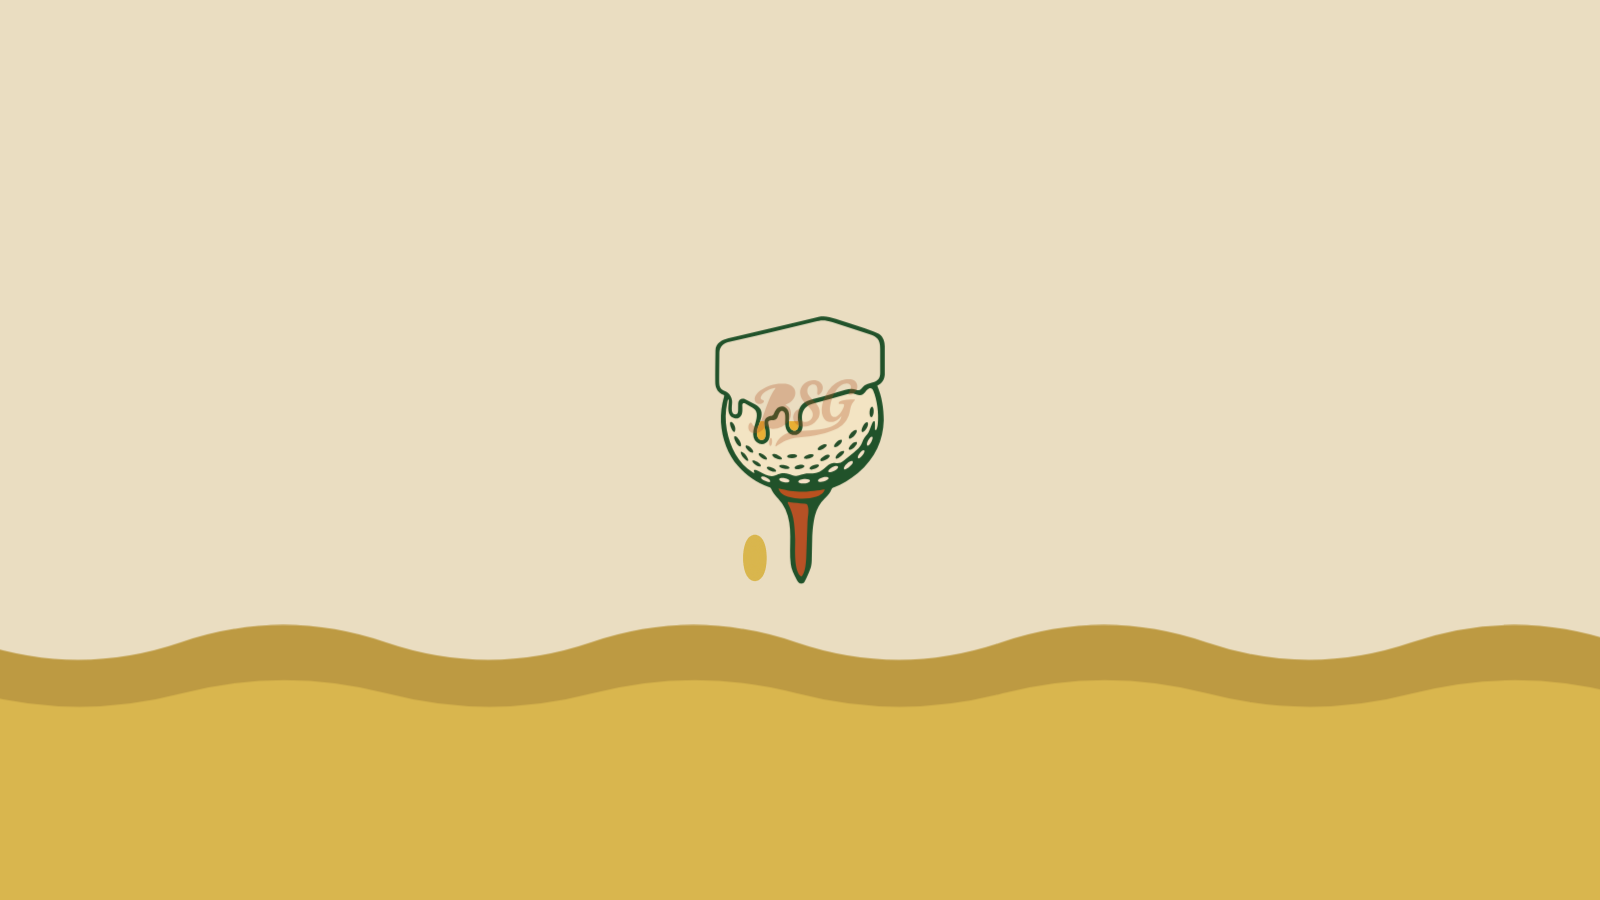
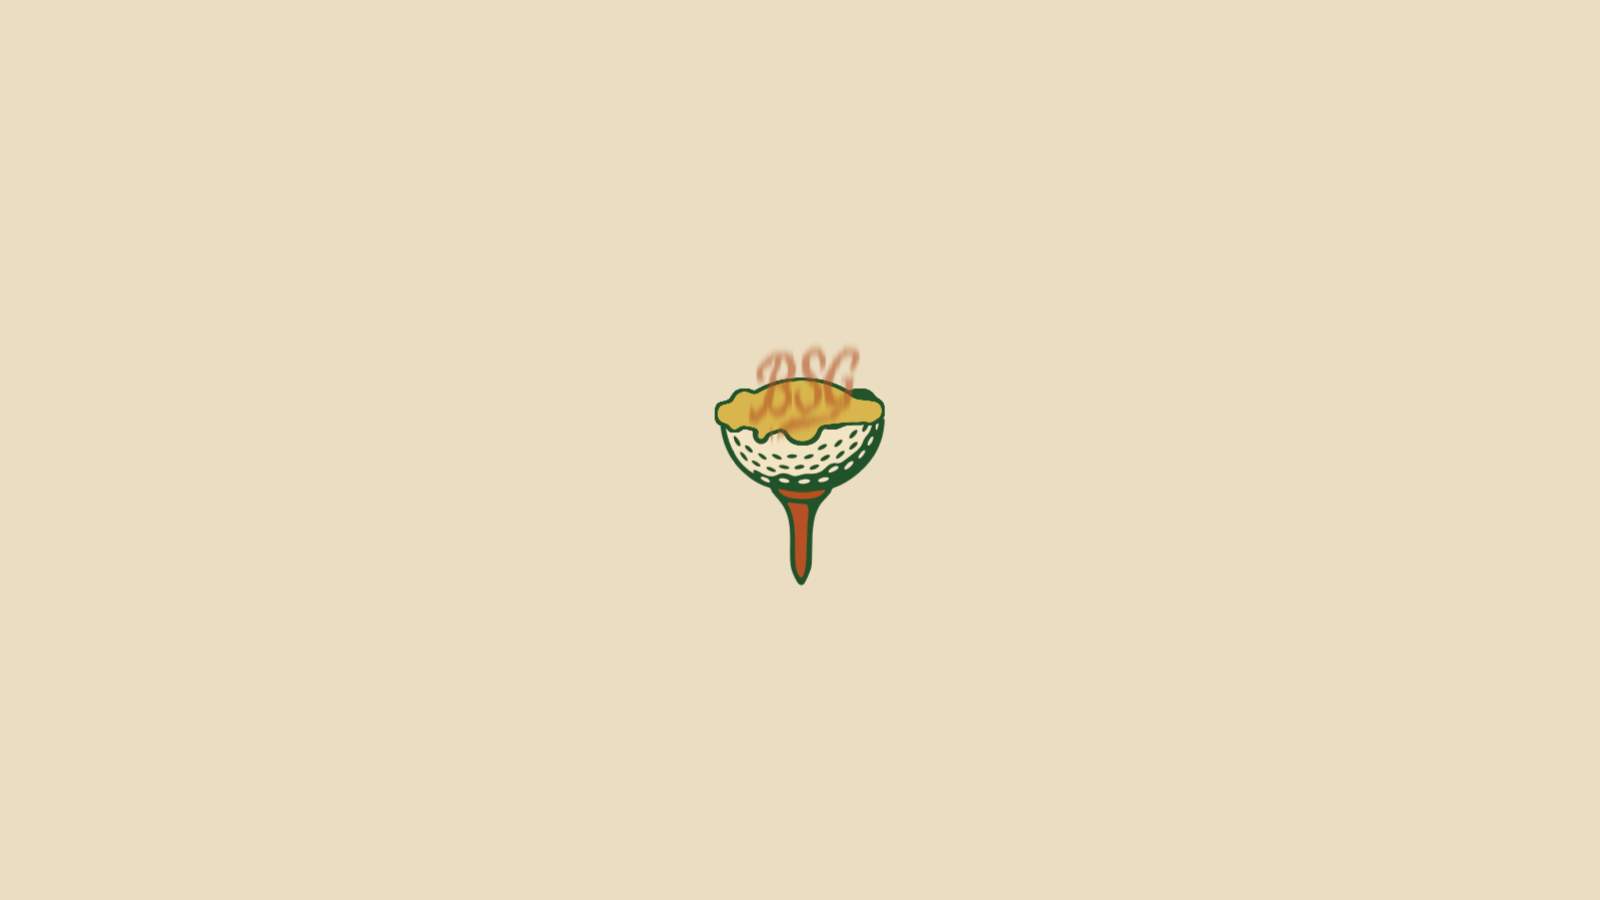
GSAP intro v3.2: outline melts with the mass, no viewport zoom-slam
Rim dilation animates 9 -> 4.5 during the melt so the green outline
thins and fuses instead of growing. Switch slice -> meet scaling (never
cover-crop: the wordmark no longer doubles in tall windows), body
background follows the tide, scene clipped to the viewBox.

Claude-Session: https://claude.ai/code/session_01XoixdVZHUDRa8j4FLVb79L

Changed region(s): [[0.0, 0.6844, 1.0, 1.0], [0.4375, 0.3422, 0.5625, 0.56], [0.4688, 0.5911, 0.5, 0.6533]]

diff --git a/gsap/intro.html b/gsap/intro.html
@@ -12,7 +12,7 @@
 </head>
 <body>
 <div class="stage">
-<svg viewBox="0 0 1600 900" preserveAspectRatio="xMidYMid slice" aria-label="Butter Sticks Golf intro animation">
+<svg viewBox="0 0 1600 900" preserveAspectRatio="xMidYMid meet" aria-label="Butter Sticks Golf intro animation">
   <defs>
     <filter id="goo" x="-30%" y="-30%" width="160%" height="160%">
       <feGaussianBlur in="SourceGraphic" stdDeviation="8" result="b"/>
@@ -23,7 +23,7 @@
       <feGaussianBlur in="SourceGraphic" stdDeviation="8" result="b"/>
       <feColorMatrix in="b" mode="matrix"
         values="1 0 0 0 0  0 1 0 0 0  0 0 1 0 0  0 0 0 20 -8" result="thresh"/>
-      <feMorphology in="thresh" operator="dilate" radius="10" result="fat"/>
+      <feMorphology id="rimDilate" in="thresh" operator="dilate" radius="9" result="fat"/>
       <feFlood flood-color="#21522a"/>
       <feComposite operator="in" in2="fat"/>
     </filter>
@@ -39,7 +39,9 @@
     <clipPath id="eraserClip">
       <rect id="eraserRect" x="1520" y="740" width="440" height="0"/>
     </clipPath>
+    <clipPath id="sceneClip"><rect x="0" y="0" width="1600" height="900"/></clipPath>
   </defs>
+  <g clip-path="url(#sceneClip)">
 
   <rect id="bg" width="1600" height="900" fill="#EADDC1"/>
 
@@ -141,6 +143,7 @@
 <path d="M 664.9526,627.6091000000001 C 678.5206,627.6151000000001 692.5156,627.7242000000001 706.1012,627.6930000000001 C 706.4133,627.6925000000001 706.6672,627.4371000000001 706.6667,627.1250000000001 L 706.6463,616.0922000000002 C 706.6457,615.7807000000001 706.392,615.5270000000002 706.0805,615.5264000000001 L 678.0906,615.4658000000001 C 677.1424,615.4635000000001 677.1084,615.3521000000001 677.111,614.8507000000001 C 677.192,603.2992000000002 677.1268,582.2647000000001 677.0767,563.3349000000001 C 677.0758,563.0217000000001 676.8201,562.7669000000001 676.5069,562.7669000000001 L 664.4684,562.7669000000001 C 664.1566,562.7669000000001 663.9021,563.0211000000002 663.9015,563.3330000000001 L 663.8193,626.4738000000001 C 663.8185,627.0986000000001 664.3278,627.6088000000001 664.9526,627.6091000000001" fill-rule="evenodd" class="golfLetter"/>
 <path d="M 741.7528,627.1286000000001 L 741.8211,603.0455000000001 C 741.8228,602.4202000000001 742.3339,601.9114000000001 742.9592,601.9122000000001 L 767.1189,601.9462000000001 C 767.2762,601.9465000000001 767.4117,601.8904000000001 767.5228,601.7793000000001 C 767.634,601.6681000000001 767.6898,601.5326000000001 767.6895,601.3753000000002 L 767.6688,590.3307000000001 C 767.6683,590.0172000000001 767.4126,589.7621000000001 767.0991,589.7621000000001 C 760.6885,589.7655000000001 749.7595,589.8270000000001 743.11,589.8032000000001 C 742.7962,589.8020000000001 742.5266,589.6886000000001 742.3058,589.4656000000001 C 742.0853,589.2422000000001 741.975,588.9712000000001 741.9776,588.6574000000002 C 742.0272,582.3767000000001 742.0263,582.0221000000001 742.0496,576.8483000000001 C 742.0521,576.2232000000001 742.5632,575.7155000000001 743.1883,575.7167000000001 L 769.0972,575.7609000000001 C 769.2542,575.7612000000001 769.3894,575.7053000000001 769.5006,575.5942000000001 C 769.6117,575.4834000000001 769.6678,575.3482000000001 769.6678,575.1911000000001 L 769.6678,563.3315000000001 C 769.6678,563.0177000000001 769.4118,562.7618000000001 769.098,562.7618000000001 L 729.3249,562.7618000000001 C 729.0113,562.7618000000001 728.7554,563.0175000000002 728.7551,563.3310000000001 L 728.6859,627.1731000000001 C 728.6856,627.3305000000001 728.742,627.4660000000001 728.8534,627.5771000000001 C 728.9649,627.6882000000002 729.1006,627.7440000000001 729.258,627.7435000000002 L 741.1853,627.6967000000001 C 741.4977,627.6953000000001 741.7519,627.4410000000001 741.7528,627.1286000000001" fill-rule="evenodd" class="golfLetter"/></g>
   </g>
+  </g>
 </svg>
 </div>
 
@@ -183,6 +186,8 @@ tl.addLabel("in", 0.15)
 // ---- beat 2: the pat melts in place (1.6 - 3.4s)
 tl.addLabel("melt", 1.6)
   .to("#speed", { autoAlpha: 0, duration: 0.4 }, "melt")
+  // the outline melts into the mass: rim thins as everything liquefies
+  .to("#rimDilate", { attr: { radius: 4.5 }, duration: 2.9, ease: "sine.inOut" }, "melt+=0.3")
   // the real pat art slumps downward into the flow
   .to(".rPatArt, .gPatArt", { scaleY: 0.24, transformOrigin: "50% 100%",
       duration: 1.8, ease: "power1.inOut" }, "melt+=0.2")
@@ -236,7 +241,8 @@ $$(".drop").forEach((d, i) => {
 
 // ---- beat 4: the brown tide inversion (5.3 - 6.2s)
 tl.addLabel("tideUp", 5.3)
-  .to("#tide", { y: -85, duration: 0.9, ease: "power2.inOut" }, "tideUp");
+  .to("#tide", { y: -85, duration: 0.9, ease: "power2.inOut" }, "tideUp")
+  .to("body", { backgroundColor: "#8C5E2E", duration: 0.7, ease: "sine.inOut" }, "tideUp+=0.25");
 
 // ---- beat 5: wordmark rises alone, centered (6.5 - 8.3s)
 tl.addLabel("type", 6.7)
@@ -255,6 +261,7 @@ tl.to("svg", { scale: 1.0, duration: 9.8, ease: "sine.out" }, 0);
 if (window.matchMedia("(prefers-reduced-motion: reduce)").matches) {
   tl.progress(1).pause();
   gsap.set("#tide", { y: -85 });
+  gsap.set("body", { backgroundColor: "#8C5E2E" });
 }
 
 // headless frame-grab support: ?seek=<seconds>

diff --git a/gsap/intro_artifact.html b/gsap/intro_artifact.html
@@ -6,7 +6,7 @@
 </style>
 
 <div class="stage">
-<svg viewBox="0 0 1600 900" preserveAspectRatio="xMidYMid slice" aria-label="Butter Sticks Golf intro animation">
+<svg viewBox="0 0 1600 900" preserveAspectRatio="xMidYMid meet" aria-label="Butter Sticks Golf intro animation">
   <defs>
     <filter id="goo" x="-30%" y="-30%" width="160%" height="160%">
       <feGaussianBlur in="SourceGraphic" stdDeviation="8" result="b"/>
@@ -17,7 +17,7 @@
       <feGaussianBlur in="SourceGraphic" stdDeviation="8" result="b"/>
       <feColorMatrix in="b" mode="matrix"
         values="1 0 0 0 0  0 1 0 0 0  0 0 1 0 0  0 0 0 20 -8" result="thresh"/>
-      <feMorphology in="thresh" operator="dilate" radius="10" result="fat"/>
+      <feMorphology id="rimDilate" in="thresh" operator="dilate" radius="9" result="fat"/>
       <feFlood flood-color="#21522a"/>
       <feComposite operator="in" in2="fat"/>
     </filter>
@@ -33,7 +33,9 @@
     <clipPath id="eraserClip">
       <rect id="eraserRect" x="1520" y="740" width="440" height="0"/>
     </clipPath>
+    <clipPath id="sceneClip"><rect x="0" y="0" width="1600" height="900"/></clipPath>
   </defs>
+  <g clip-path="url(#sceneClip)">
 
   <rect id="bg" width="1600" height="900" fill="#EADDC1"/>
 
@@ -135,6 +137,7 @@
 <path d="M 664.9526,627.6091000000001 C 678.5206,627.6151000000001 692.5156,627.7242000000001 706.1012,627.6930000000001 C 706.4133,627.6925000000001 706.6672,627.4371000000001 706.6667,627.1250000000001 L 706.6463,616.0922000000002 C 706.6457,615.7807000000001 706.392,615.5270000000002 706.0805,615.5264000000001 L 678.0906,615.4658000000001 C 677.1424,615.4635000000001 677.1084,615.3521000000001 677.111,614.8507000000001 C 677.192,603.2992000000002 677.1268,582.2647000000001 677.0767,563.3349000000001 C 677.0758,563.0217000000001 676.8201,562.7669000000001 676.5069,562.7669000000001 L 664.4684,562.7669000000001 C 664.1566,562.7669000000001 663.9021,563.0211000000002 663.9015,563.3330000000001 L 663.8193,626.4738000000001 C 663.8185,627.0986000000001 664.3278,627.6088000000001 664.9526,627.6091000000001" fill-rule="evenodd" class="golfLetter"/>
 <path d="M 741.7528,627.1286000000001 L 741.8211,603.0455000000001 C 741.8228,602.4202000000001 742.3339,601.9114000000001 742.9592,601.9122000000001 L 767.1189,601.9462000000001 C 767.2762,601.9465000000001 767.4117,601.8904000000001 767.5228,601.7793000000001 C 767.634,601.6681000000001 767.6898,601.5326000000001 767.6895,601.3753000000002 L 767.6688,590.3307000000001 C 767.6683,590.0172000000001 767.4126,589.7621000000001 767.0991,589.7621000000001 C 760.6885,589.7655000000001 749.7595,589.8270000000001 743.11,589.8032000000001 C 742.7962,589.8020000000001 742.5266,589.6886000000001 742.3058,589.4656000000001 C 742.0853,589.2422000000001 741.975,588.9712000000001 741.9776,588.6574000000002 C 742.0272,582.3767000000001 742.0263,582.0221000000001 742.0496,576.8483000000001 C 742.0521,576.2232000000001 742.5632,575.7155000000001 743.1883,575.7167000000001 L 769.0972,575.7609000000001 C 769.2542,575.7612000000001 769.3894,575.7053000000001 769.5006,575.5942000000001 C 769.6117,575.4834000000001 769.6678,575.3482000000001 769.6678,575.1911000000001 L 769.6678,563.3315000000001 C 769.6678,563.0177000000001 769.4118,562.7618000000001 769.098,562.7618000000001 L 729.3249,562.7618000000001 C 729.0113,562.7618000000001 728.7554,563.0175000000002 728.7551,563.3310000000001 L 728.6859,627.1731000000001 C 728.6856,627.3305000000001 728.742,627.4660000000001 728.8534,627.5771000000001 C 728.9649,627.6882000000002 729.1006,627.7440000000001 729.258,627.7435000000002 L 741.1853,627.6967000000001 C 741.4977,627.6953000000001 741.7519,627.4410000000001 741.7528,627.1286000000001" fill-rule="evenodd" class="golfLetter"/></g>
   </g>
+  </g>
 </svg>
 </div>
 
@@ -177,6 +180,8 @@ tl.addLabel("in", 0.15)
 // ---- beat 2: the pat melts in place (1.6 - 3.4s)
 tl.addLabel("melt", 1.6)
   .to("#speed", { autoAlpha: 0, duration: 0.4 }, "melt")
+  // the outline melts into the mass: rim thins as everything liquefies
+  .to("#rimDilate", { attr: { radius: 4.5 }, duration: 2.9, ease: "sine.inOut" }, "melt+=0.3")
   // the real pat art slumps downward into the flow
   .to(".rPatArt, .gPatArt", { scaleY: 0.24, transformOrigin: "50% 100%",
       duration: 1.8, ease: "power1.inOut" }, "melt+=0.2")
@@ -230,7 +235,8 @@ $$(".drop").forEach((d, i) => {
 
 // ---- beat 4: the brown tide inversion (5.3 - 6.2s)
 tl.addLabel("tideUp", 5.3)
-  .to("#tide", { y: -85, duration: 0.9, ease: "power2.inOut" }, "tideUp");
+  .to("#tide", { y: -85, duration: 0.9, ease: "power2.inOut" }, "tideUp")
+  .to("body", { backgroundColor: "#8C5E2E", duration: 0.7, ease: "sine.inOut" }, "tideUp+=0.25");
 
 // ---- beat 5: wordmark rises alone, centered (6.5 - 8.3s)
 tl.addLabel("type", 6.7)
@@ -249,6 +255,7 @@ tl.to("svg", { scale: 1.0, duration: 9.8, ease: "sine.out" }, 0);
 if (window.matchMedia("(prefers-reduced-motion: reduce)").matches) {
   tl.progress(1).pause();
   gsap.set("#tide", { y: -85 });
+  gsap.set("body", { backgroundColor: "#8C5E2E" });
 }
 
 // headless frame-grab support: ?seek=<seconds>

diff --git a/tools/build_gsap_intro.py b/tools/build_gsap_intro.py
@@ -71,7 +71,7 @@ html = f"""<!doctype html>
 </head>
 <body>
 <div class="stage">
-<svg viewBox="0 0 1600 900" preserveAspectRatio="xMidYMid slice" aria-label="Butter Sticks Golf intro animation">
+<svg viewBox="0 0 1600 900" preserveAspectRatio="xMidYMid meet" aria-label="Butter Sticks Golf intro animation">
   <defs>
     <filter id="goo" x="-30%" y="-30%" width="160%" height="160%">
       <feGaussianBlur in="SourceGraphic" stdDeviation="8" result="b"/>
@@ -82,7 +82,7 @@ html = f"""<!doctype html>
       <feGaussianBlur in="SourceGraphic" stdDeviation="8" result="b"/>
       <feColorMatrix in="b" mode="matrix"
         values="1 0 0 0 0  0 1 0 0 0  0 0 1 0 0  0 0 0 20 -8" result="thresh"/>
-      <feMorphology in="thresh" operator="dilate" radius="10" result="fat"/>
+      <feMorphology id="rimDilate" in="thresh" operator="dilate" radius="9" result="fat"/>
       <feFlood flood-color="{GREEN}"/>
       <feComposite operator="in" in2="fat"/>
     </filter>
@@ -98,7 +98,9 @@ html = f"""<!doctype html>
     <clipPath id="eraserClip">
       <rect id="eraserRect" x="1520" y="740" width="440" height="0"/>
     </clipPath>
+    <clipPath id="sceneClip"><rect x="0" y="0" width="1600" height="900"/></clipPath>
   </defs>
+  <g clip-path="url(#sceneClip)">
 
   <rect id="bg" width="1600" height="900" fill="{CREAM}"/>
 
@@ -143,6 +145,7 @@ html = f"""<!doctype html>
     <g id="wmSticks">{paths("wm_sticks", keep_fill=False)}</g>
     <g id="wmGolf">{paths("wm_golf", keep_fill=False, cls="golfLetter")}</g>
   </g>
+  </g>
 </svg>
 </div>
 
@@ -174,6 +177,8 @@ tl.addLabel("in", 0.15)
 // ---- beat 2: the pat melts in place (1.6 - 3.4s)
 tl.addLabel("melt", 1.6)
   .to("#speed", {{ autoAlpha: 0, duration: 0.4 }}, "melt")
+  // the outline melts into the mass: rim thins as everything liquefies
+  .to("#rimDilate", {{ attr: {{ radius: 4.5 }}, duration: 2.9, ease: "sine.inOut" }}, "melt+=0.3")
   // the real pat art slumps downward into the flow
   .to(".rPatArt, .gPatArt", {{ scaleY: 0.24, transformOrigin: "50% 100%",
       duration: 1.8, ease: "power1.inOut" }}, "melt+=0.2")
@@ -227,7 +232,8 @@ $$(".drop").forEach((d, i) => {{
 
 // ---- beat 4: the brown tide inversion (5.3 - 6.2s)
 tl.addLabel("tideUp", 5.3)
-  .to("#tide", {{ y: -85, duration: 0.9, ease: "power2.inOut" }}, "tideUp");
+  .to("#tide", {{ y: -85, duration: 0.9, ease: "power2.inOut" }}, "tideUp")
+  .to("body", {{ backgroundColor: "{BROWN}", duration: 0.7, ease: "sine.inOut" }}, "tideUp+=0.25");
 
 // ---- beat 5: wordmark rises alone, centered (6.5 - 8.3s)
 tl.addLabel("type", 6.7)
@@ -246,6 +252,7 @@ tl.to("svg", {{ scale: 1.0, duration: 9.8, ease: "sine.out" }}, 0);
 if (window.matchMedia("(prefers-reduced-motion: reduce)").matches) {{
   tl.progress(1).pause();
   gsap.set("#tide", {{ y: -85 }});
+  gsap.set("body", {{ backgroundColor: "{BROWN}" }});
 }}
 
 // headless frame-grab support: ?seek=<seconds>
